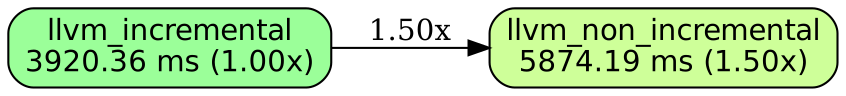
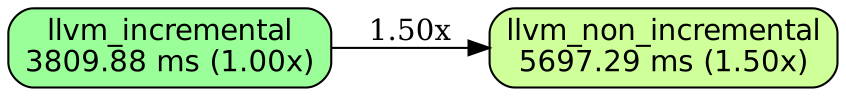
chore: regenerate generated files after merge

Changed region(s): [[0.0307, 0.5, 0.1844, 0.75], [0.6147, 0.5, 0.7376, 0.75]]

diff --git a/docs/BUILD.md b/docs/BUILD.md
@@ -2,7 +2,7 @@
   AUTO-GENERATED: DO NOT EDIT DIRECTLY
 
   Generated by: mockspace (mock)
-  Generated at: 2026-11-19T23:55:05Z
+  Generated at: 2026-11-20T09:14:34Z
   Source: mock/
   To regenerate: cargo mock
 -->
@@ -368,7 +368,8 @@ script found, each a `ToolPath` of a tool and where it is, from which
 the walk makes every member its `Written`. `each_tool` is the walk
 that hands over every member's tool, and `writes_flags` asks a set at
 its site whether any member writes a flag, which is what the wiring's
-notices turn on.
+notices turn on. `write_set_config` is the walk that writes the cargo
+configuration of every member of one set at one site.
 
 `PragmaSet` is the folded value of a set, the mask a `BuildConfig`
 carries, built by `PragmaSet::of::<S>()` and read by `contains::<P>()`.
@@ -391,10 +392,14 @@ Nothing changes one: a set is changed by naming another type.
 | `SharedGenerics` | `-Zshare-generics=y`. Reduces link time in debug builds | Rustc wrapper |
 | `LoopFusion` | Fuse adjacent loops. EXPERIMENTAL. Not in defaults. Benchmark before enabling | Rustc wrapper |
 | `MimallocAllocator` | Recommends mimalloc. Consumer sets #[global_allocator] | Advisory |
+| `ChecksumFreshness` | Cargo decides whether a file changed by its content and not by its time, so a tree whose files got new times and the same content rebuilds nothing. Not in defaults | Generated config |
 
 `MathPeephole` requires `All<(FastMath,)>` and `Profiling` requires
 `Any<(Pgo, Bolt)>`. `ParallelCodegen` takes its count as a const
-parameter and has one bit whatever the count.
+parameter and has one bit whatever the count. `ChecksumFreshness` is
+of the group `Free` and of workspace reach. Its one key,
+`unstable.checksum-freshness = true`, belongs to no profile and is
+written once, by the first set that holds the pragma.
 
 **The seven build choices.** Each is a group, with one pragma per
 value that differs from the toolchain's own. A group with no pragma in
@@ -454,7 +459,8 @@ for that target by a change that cites the cell's run directory where
 the default is declared.
 
 Not in any default: Polly (requires special LLVM), BuildStd (build
-time), LoopFusion (experimental).
+time), LoopFusion (experimental), ChecksumFreshness (cargo's flag for
+it is unstable).
 
 ## Reach
 
@@ -480,7 +486,10 @@ whose it is. Where the file is this crate's and holds another text it
 is moved into place. `write_generated`
 writes its text: a first line that names the crate it was written for,
 then every key the workspace's pragmas write, for the `dev` and the
-`release` profile. A key that belongs to no profile is in the file
+`release` profile, each set's through `write_set_config`. A caller
+that builds without the generated file, a bench of the build itself,
+hands the same lines to cargo one by one as `--config`, since a dotted
+key with its value is the form that option takes. A key that belongs to no profile is in the file
 once: the pragma that writes it is told through its `Shared` when a
 profile before this one has written it, and one key twice is a file
 cargo cannot read, which stops every build before any script runs. So
@@ -642,6 +651,39 @@ the tool's, and none of the outer build's wrapper or flags. Where the
 answer is to refuse, the script prints the text of `write_refusal` as
 a `cargo::error`.
 
+## The linker of a set
+
+A set is linked by one linker, and the crate answers which.
+`linker_of::<S>()` answers a `Linker`: `Linker::Toolchain` where the
+set holds no pragma of `LinkerGroup`, else `Linker::Named` with the
+pragma's name and the mark its tool leaves in `.comment`, the `mark`
+of the first row of its `NEEDS`, which is nothing for `Bfd`: GNU ld
+leaves none. `linker_named` answers the same from a name, `toolchain`
+or a pragma's name, and nothing for any other. It is for a reader that
+has a recorded name and no type. `Linker::name` is the name
+`linker_named` takes back.
+
+`Linker::leaves` says whether a mark read from an executable is that
+linker's. A named linker with a mark leaves a text that starts with
+it. A named linker with none leaves nothing. The toolchain's own
+leaves exactly the mark the caller worked out for it and hands in.
+
+The toolchain's own linker differs by target, and rustc says which in
+its description of the target, the text `--print target-spec-json`
+prints. `ToolchainLinker::of` reads that text:
+`ToolchainLinker::RustLld` where the linker flavor is an lld one and
+`link-self-contained` names the linker, else `ToolchainLinker::Other`
+with the flavor as the text has it. The crate reads the two fields it
+needs by searching the text and parses no JSON. `rust_lld_mark` takes
+the first line `rust-lld` printed for `--version` and answers a
+`RustLldMark`, which displays as `Linker: ` and the version with the
+LLVM commit it was built from, or nothing where the line is not
+lld's. For any other toolchain linker the crate has no mark, and a
+caller that needs one refuses.
+
+The running of rustc and of `rust-lld` stays the caller's, as every
+looking does.
+
 ## LLVM pass plugin (T4 §Q4c)
 
 A ~40-line C++ file compiled against LLVM headers. Registers passes
@@ -689,6 +731,7 @@ yet find, and their pragmas write nothing meanwhile:
 | `Pgo`, `Bolt`, `Profiling` | nothing | merged profiles, `llvm-bolt` |
 | `ExpandedLto` | its profile keys, in the generated cargo file of the script that claims the workspace | nothing |
 | `BuildStd` | nothing | the consumer's Cargo profile |
+| `ChecksumFreshness` | its one key, in the generated cargo file or as a `--config` line | nothing |
 
 **LoopOptimization:**
 - `-Z llvm-plugins=<path>/polka-passes.so` (once found)

diff --git a/docs/BENCHES.md b/docs/BENCHES.md
@@ -2,7 +2,7 @@
   AUTO-GENERATED: DO NOT EDIT DIRECTLY
 
   Generated by: mockspace (mock)
-  Generated at: 2026-11-20T03:07:41Z
+  Generated at: 2026-11-20T09:14:27Z
   Source: mock/
   To regenerate: cargo mock
 -->
@@ -834,45 +834,45 @@ Run `20261119T171604Z-fe400621`.
 
 ## build-static/leaf_n25 on linux-x86_64-c4-container-intel
 
-Run `20261119T150158Z-ffb57e5a`.
+Run `20261120T080735Z-3bf2136b`.
 
 | variant | median | vs best |
 |---|---|---|
-| llvm_incremental | 3920.36 ms | 1.00x |
-| llvm_non_incremental | 5874.19 ms | 1.50x |
+| llvm_incremental | 3809.88 ms | 1.00x |
+| llvm_non_incremental | 5697.29 ms | 1.50x |
 
 ![build-static/leaf_n25 on linux-x86_64-c4-container-intel](BENCHES.build-static.leaf_n25.linux-x86_64-c4-container-intel.png)
 
 ## build-static/leaf_n97 on linux-x86_64-c4-container-intel
 
-Run `20261119T203124Z-4228372a`.
+Run `20261120T080735Z-3bf2136b`.
 
 | variant | median | vs best |
 |---|---|---|
-| llvm_incremental | 4011.75 ms | 1.00x |
-| llvm_non_incremental | 5821.77 ms | 1.45x |
+| llvm_incremental | 4186.59 ms | 1.00x |
+| llvm_non_incremental | 6408.94 ms | 1.53x |
 
 ![build-static/leaf_n97 on linux-x86_64-c4-container-intel](BENCHES.build-static.leaf_n97.linux-x86_64-c4-container-intel.png)
 
 ## build-static/mid_n25 on linux-x86_64-c4-container-intel
 
-Run `20261119T150158Z-ffb57e5a`.
+Run `20261120T080735Z-3bf2136b`.
 
 | variant | median | vs best |
 |---|---|---|
-| llvm_incremental | 586.04 ms | 1.00x |
-| llvm_non_incremental | 6084.57 ms | 10.38x |
+| llvm_incremental | 578.84 ms | 1.00x |
+| llvm_non_incremental | 5756.40 ms | 9.94x |
 
 ![build-static/mid_n25 on linux-x86_64-c4-container-intel](BENCHES.build-static.mid_n25.linux-x86_64-c4-container-intel.png)
 
 ## build-static/mid_n97 on linux-x86_64-c4-container-intel
 
-Run `20261119T203124Z-4228372a`.
+Run `20261120T080735Z-3bf2136b`.
 
 | variant | median | vs best |
 |---|---|---|
-| llvm_incremental | 2549.14 ms | 1.00x |
-| llvm_non_incremental | 33358.81 ms | 13.09x |
+| llvm_incremental | 2547.55 ms | 1.00x |
+| llvm_non_incremental | 32611.66 ms | 12.80x |
 
 ![build-static/mid_n97 on linux-x86_64-c4-container-intel](BENCHES.build-static.mid_n97.linux-x86_64-c4-container-intel.png)
 
